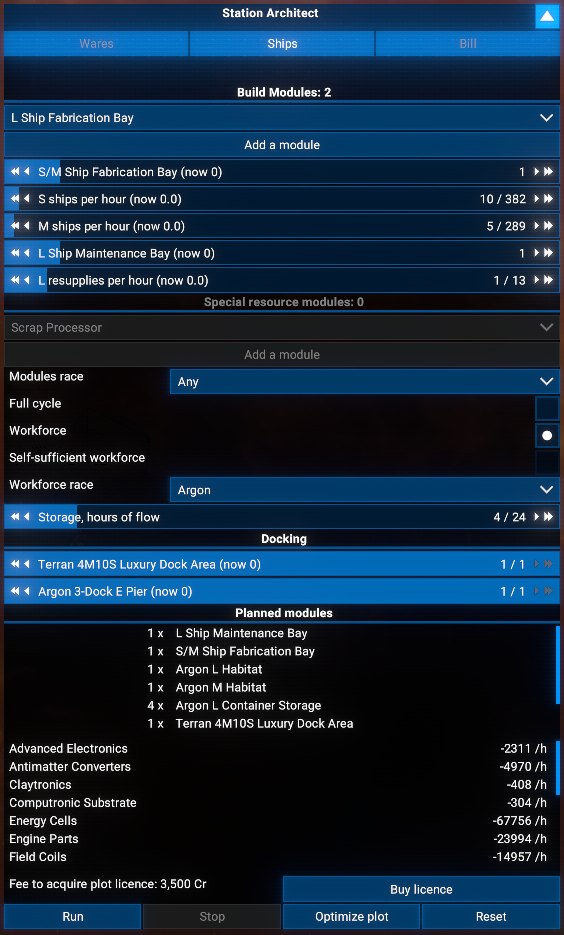
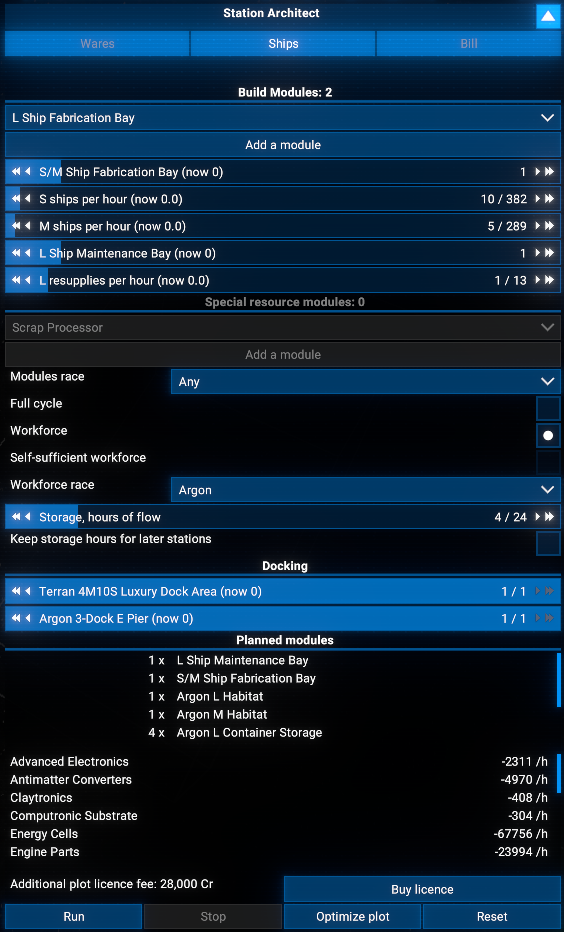
fix: cancelled plan restores the plot's exact earlier size; additional licence fee text; README shots
- Cancel, closing with unconfirmed changes, and a new run's start now also move back out
  any plot face the end-of-run fit pulled in, so the plot never ends up smaller than it
  was before the runs
- The licence row after a run reads "Additional plot licence fee" (all 16 languages)
- README: panel and map dialog shots retaken with the storage hours option and the
  planned-module boxes; a new shot of a ware bought instead of made

Changed region(s): [[0.0, 0.0, 1.0, 1.0]]

diff --git a/README.md b/README.md
@@ -80,6 +80,8 @@ Open the build menu of one of your stations. The Station Architect panel sits un
 
 ![The Wares tab: two Hull Part Production modules with the full cycle and the workforce](docs/images/panel_target.png)
 
+![The same target with Graphene Production unticked: its row stays, the station buys 320 Graphene per hour, and one habitat less is planned](docs/images/panel_buy.png)
+
 ![An existing claytronics station: its target starts at the station's own count, the docks show what it has, and the plan covers its shortfalls](docs/images/panel_existing.png)
 
 ### Ships
@@ -115,7 +117,7 @@ Their scrap metal feeds the scrap recycling modules that make your target wares 
 ![The build menu during a run: the new modules appear on the station one by one](docs/images/build_menu_run.png)
 
 3. If the game's editor still refuses a module after a few retries, the run removes every module it placed and starts the placement over, once. A second refusal removes everything again, and the folded panel names the module.
-4. When the run ends the panel folds to its result (placed, failed). Check the plan, change what you like by hand, and press **Confirm module changes** as usual. **Optimize plot** fits the plot to the planned modules, so a plot the run grew is not paid larger than needed. **Reset** starts the target over from what the station has. While a plot's licence is still due (a new plot before its run, or after a **Bill** run, which grows the plot without asking), the panel shows the fee with its own **Buy licence**.
+4. When the run ends the panel folds to its result (placed, failed). Check the plan, change what you like by hand, and press **Confirm module changes** as usual. **Optimize plot** fits the plot to the planned modules, so a plot the run grew is not paid larger than needed. **Reset** starts the target over from what the station has. While a plot's licence is still due (a new plot before its run, or after a **Bill** run, which grows the plot without asking), the panel shows it as an additional licence fee, on top of what was paid, with its own **Buy licence**.
 
 ![A finished run: 192 modules placed, 0 failed, the plan waiting for Confirm module changes](docs/images/build_menu_done.png)
 
@@ -172,6 +174,7 @@ In the game's Extension Options, the Station Architect page has a Debug Level se
 - Changed
   - A station without connection structures is upgraded on the grid too: from its free connections, or beside it when they have no room
   - The plot grown for a plan goes back to its earlier size when the plan is cancelled, left unconfirmed at closing, or no longer needs it at the next run; a paid plot is kept
+  - The licence still due after a run is shown as an additional fee
 - Fixed
   - **Modules race** and **Workforce race** listed only the races you have met, so your modules of another race could not be picked
   - An upgrade beside a pier whose approach lanes point up refused its new docks as past the plot limit, and planned slowly
